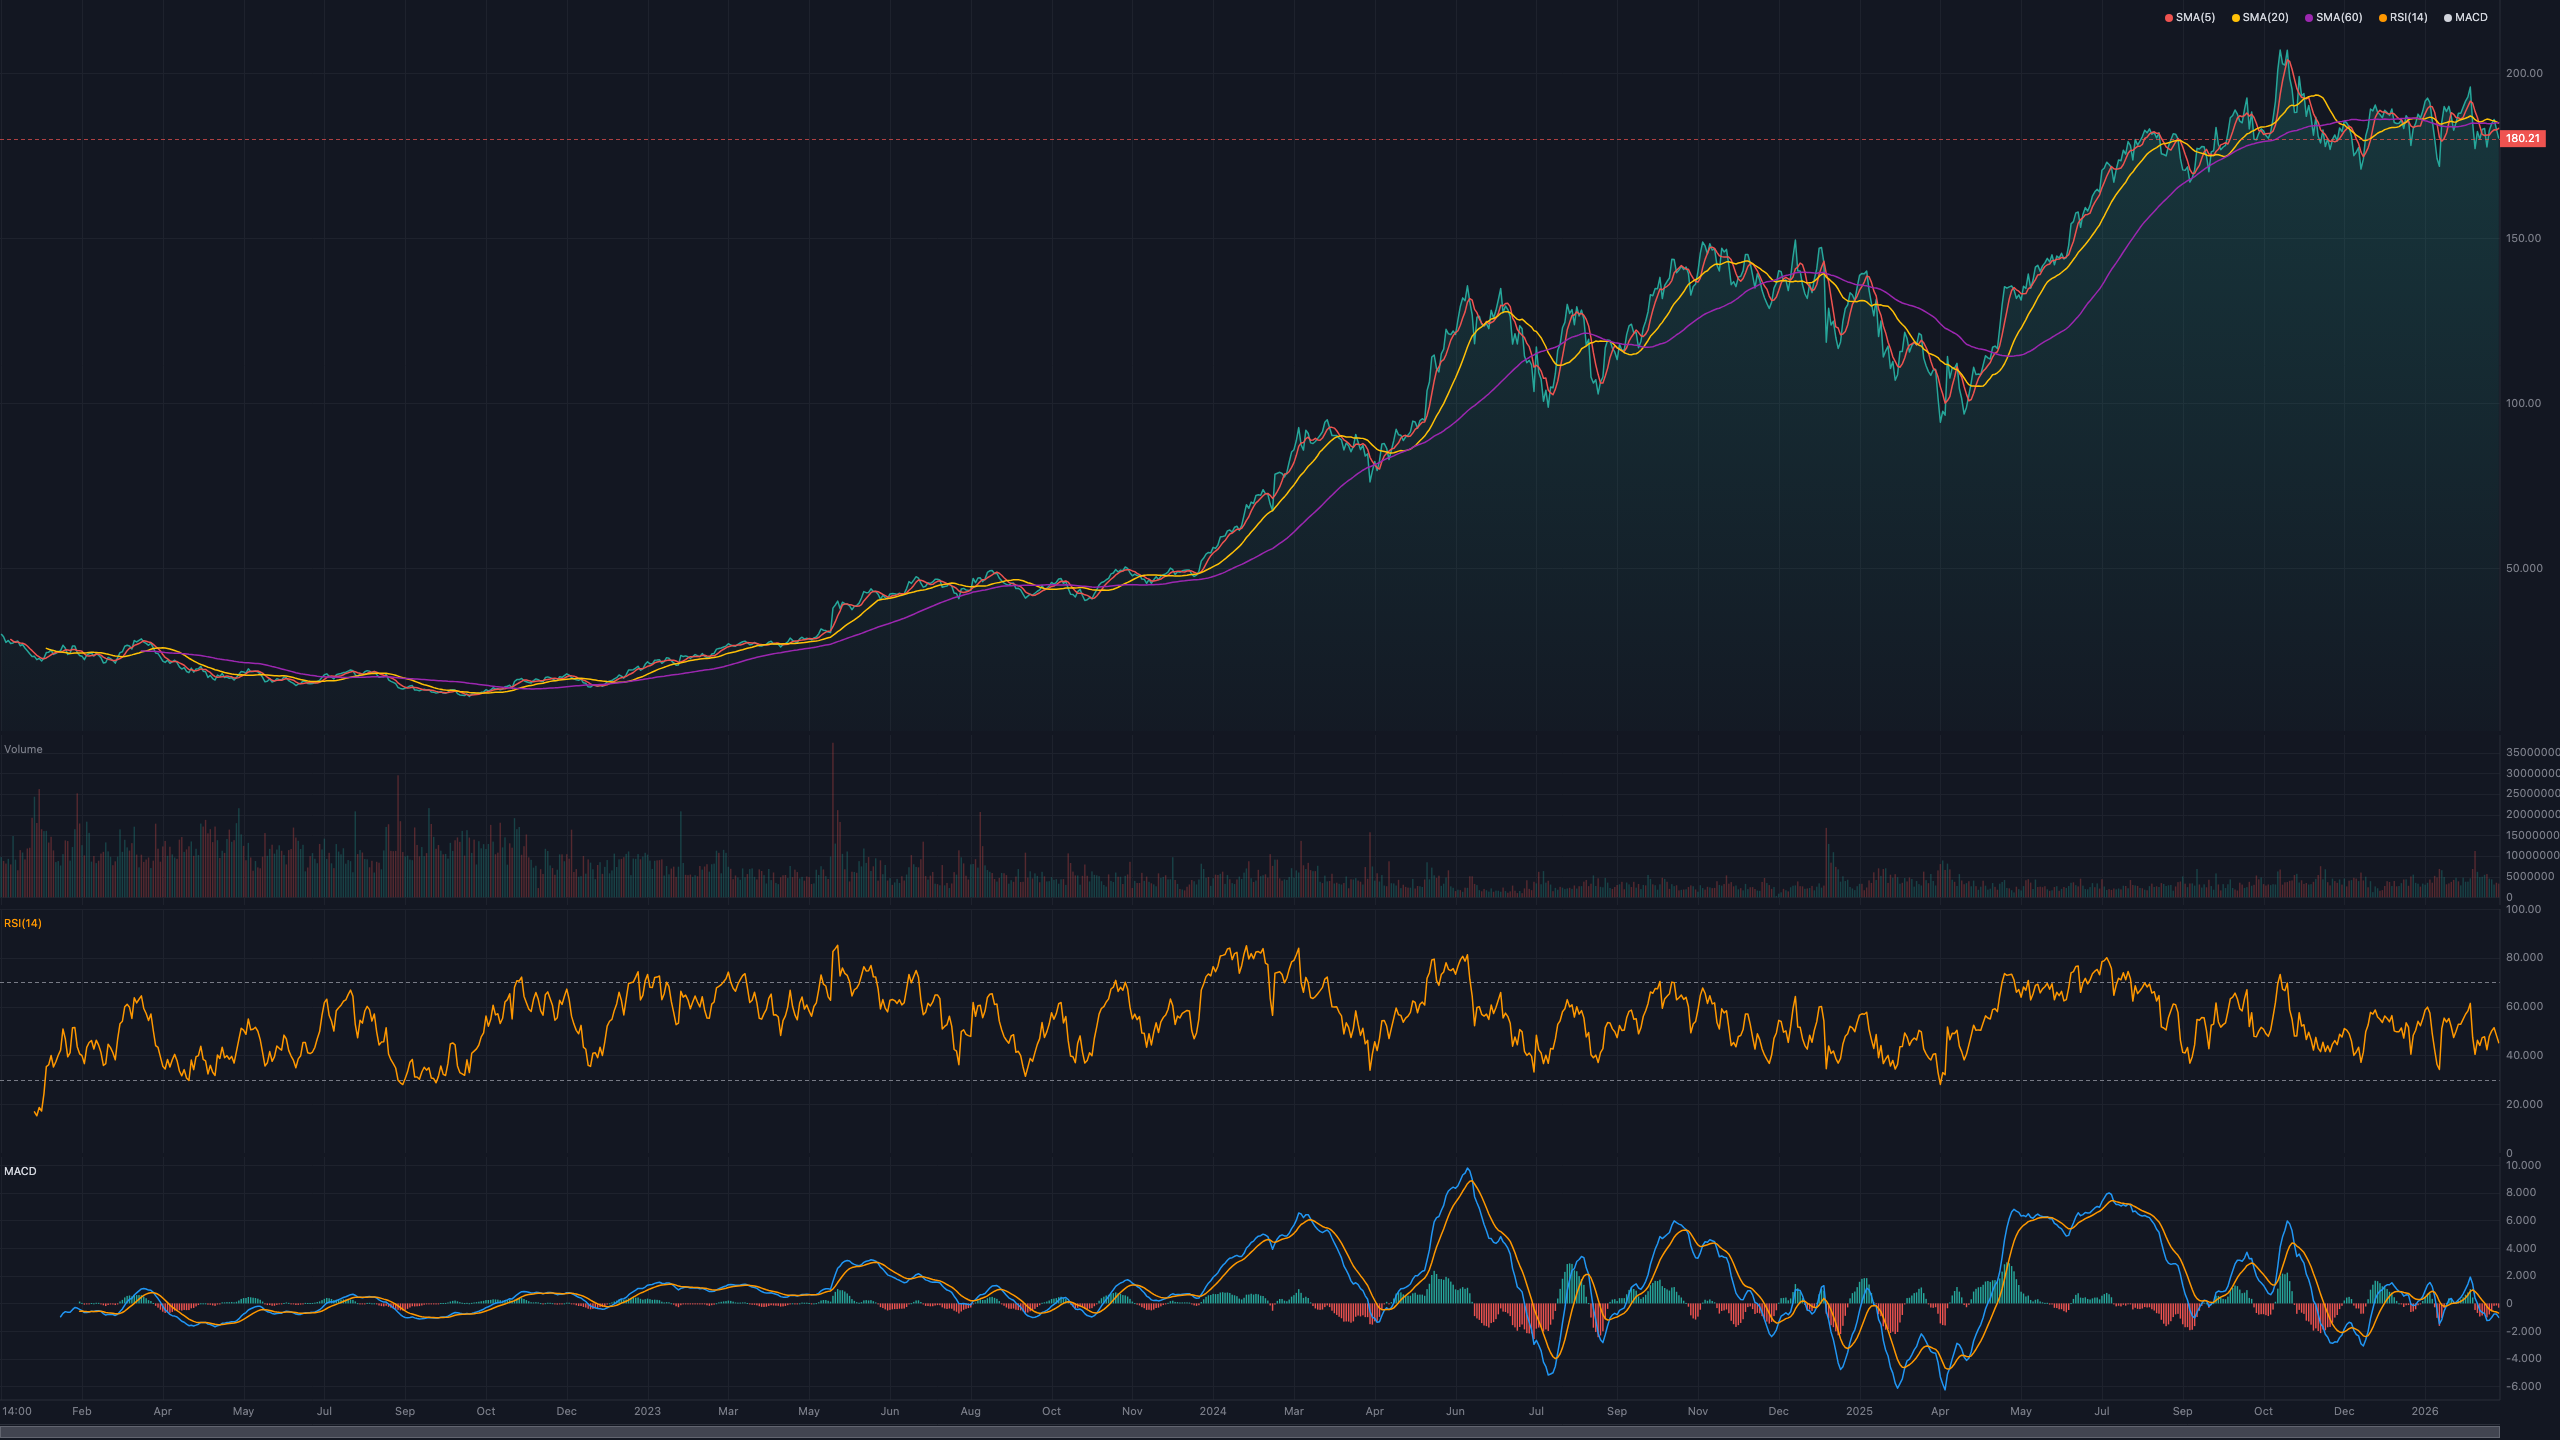
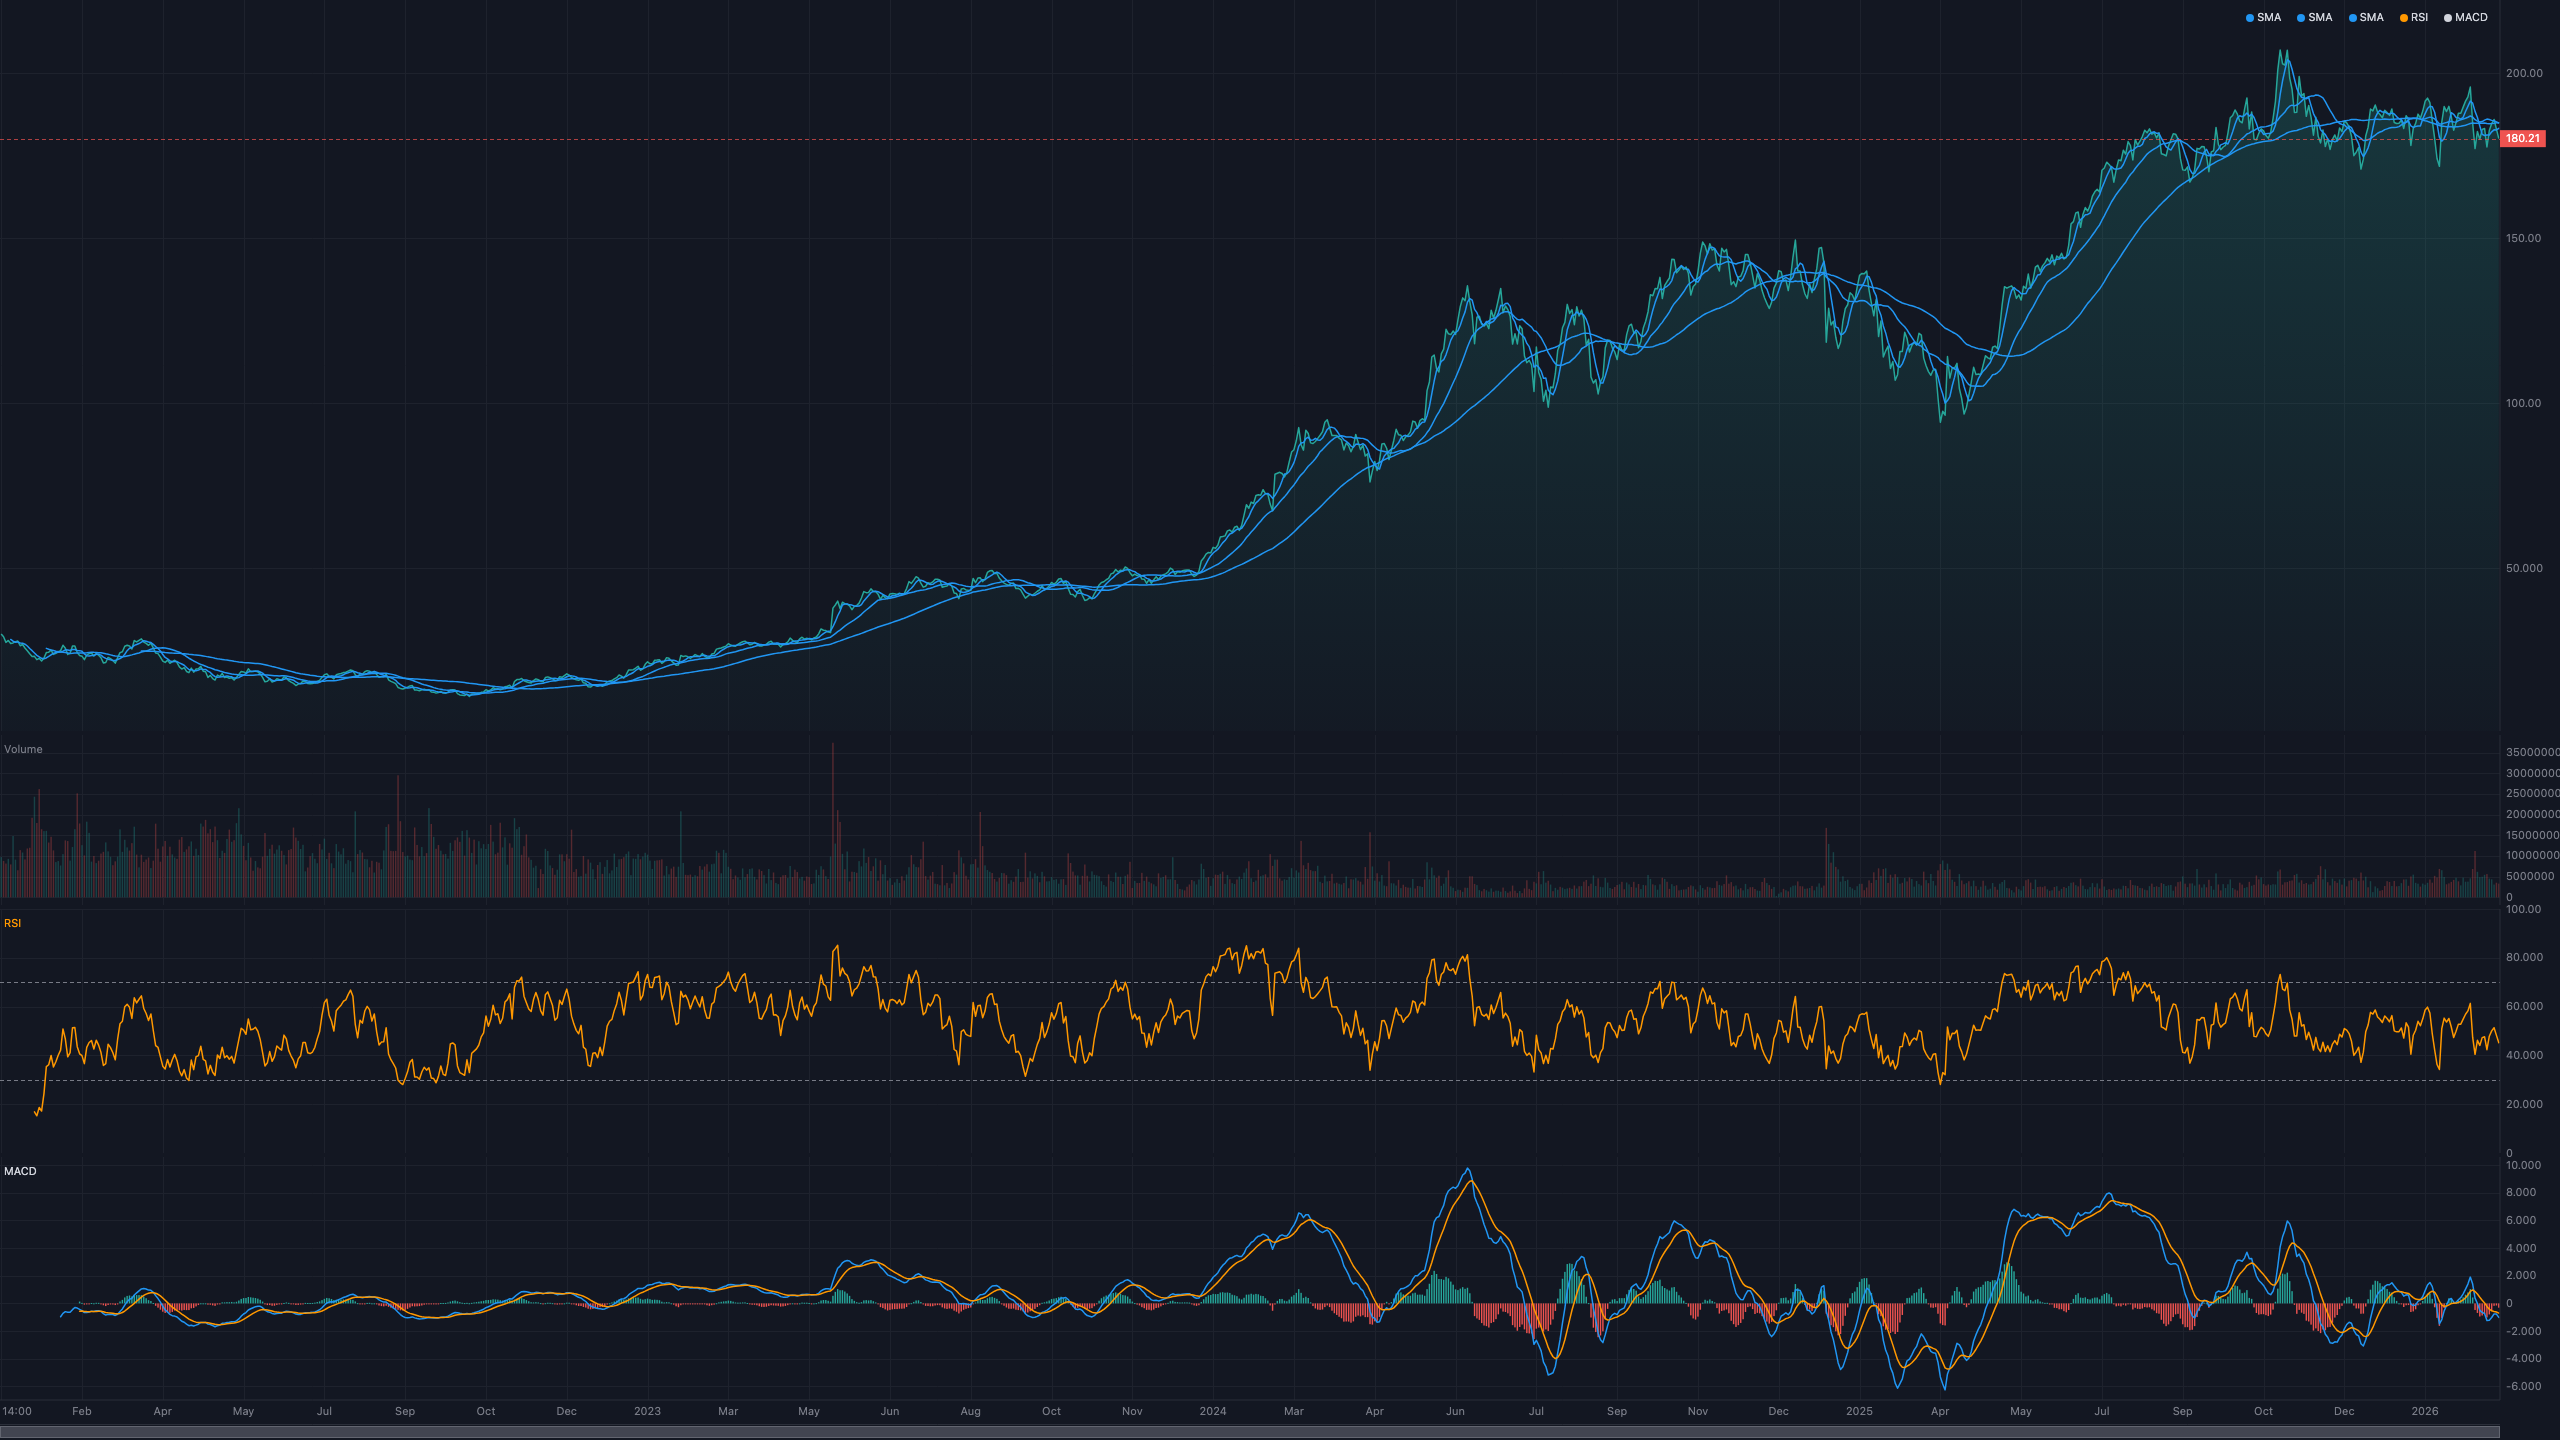
docs: record parametric-label change in CHANGELOGs and simplify hero scenes
- packages/core/CHANGELOG.md: document the parameterized __meta.label
  change (practically breaking for callers that string-match labels)
  and the new withLabelParams export.
- packages/chart/CHANGELOG.md: note the buildSeriesConfig simplification
  and the dropped MA preset colors.
- docs-screenshots/scenes/hero*.ts: drop the per-instance color overrides
  that were workarounds for the pre-fix collision. Scenes now register
  SMA 5/20/60 with zero config and rely on the library to produce
  distinct labels and auto-cycled colors.
- docs/assets/hero.png and hero-candle.png regenerated from the cleaner
  scenes (same data, same viewport).

diff --git a/packages/chart/examples/docs-screenshots/src/scenes/hero.ts b/packages/chart/examples/docs-screenshots/src/scenes/hero.ts
@@ -23,11 +23,11 @@ export function run(stage: HTMLElement, candles: CandleData[]): void {
   chart.setCandles(candles);
 
   const conn = connectIndicators(chart, { presets: indicatorPresets, candles });
-  // Override SMA colors per instance — the registered TrendCraft preset assigns
-  // all SMAs the same blue, so we force a ribbon palette here.
-  conn.add("sma", { period: 5, series: { color: "#EF5350" } });
-  conn.add("sma", { period: 20, series: { color: "#FFC107" } });
-  conn.add("sma", { period: 60, series: { color: "#9C27B0" } });
+  // Core v0.2.0+ emits parameterized labels and the chart auto-cycles colors
+  // across multi-instance presets, so no manual overrides are needed here.
+  conn.add("sma", { period: 5 });
+  conn.add("sma", { period: 20 });
+  conn.add("sma", { period: 60 });
   conn.add("rsi", { period: 14 });
   conn.add("macd");
 

diff --git a/packages/chart/examples/docs-screenshots/src/scenes/hero-candle.ts b/packages/chart/examples/docs-screenshots/src/scenes/hero-candle.ts
@@ -20,9 +20,9 @@ export function run(stage: HTMLElement, candles: CandleData[]): void {
   chart.setCandles(candles);
 
   const conn = connectIndicators(chart, { presets: indicatorPresets, candles });
-  conn.add("sma", { period: 5, series: { color: "#EF5350" } });
-  conn.add("sma", { period: 20, series: { color: "#FFC107" } });
-  conn.add("sma", { period: 60, series: { color: "#9C27B0" } });
+  conn.add("sma", { period: 5 });
+  conn.add("sma", { period: 20 });
+  conn.add("sma", { period: 60 });
   conn.add("rsi", { period: 14 });
   conn.add("macd");
 

diff --git a/packages/core/CHANGELOG.md b/packages/core/CHANGELOG.md
@@ -2,7 +2,18 @@
 
 ## Unreleased
 
-Target: **v0.2.0** — additive-only minor bump introducing live-streaming, indicator-registry, and series-metadata APIs.
+Target: **v0.2.0** — minor bump introducing live-streaming, indicator-registry, and series-metadata APIs, plus parameterized indicator labels.
+
+### Changed (Breaking in practice)
+
+- **Parameterized `__meta.label` on every parametric indicator.** Previously every SMA emitted `__meta.label = "SMA"` regardless of its period. Now the label includes the identifying parameters: `"SMA(20)"`, `"MACD(12, 26, 9)"`, `"BB(20, 2)"`, etc. This is done through a new `withLabelParams(meta, params)` helper (also exported) so callers building custom indicators can adopt the same convention.
+  - Fixes the ergonomic gap where three SMAs on one chart collapsed to three identical `"SMA"` legend entries.
+  - Code that compared `__meta.label` to a hard-coded string like `"RSI"` will need to match the parameterized form or use `meta.label.startsWith("RSI")`. Consumers that just render the label see no behavioural change other than the displayed string.
+  - ~50 indicators updated: all moving averages, the momentum/oscillator set (RSI, MACD, Stochastics, Aroon, CCI, Williams %R, ROC, TRIX, DPO, Hurst, Ultimate Oscillator, Awesome Oscillator, Mass Index, KST, Coppock, TSI, PPO, StochRSI, Connors RSI, CMO, Balance of Power, QStick, ADXR, DMI, IMI), volatility (BB, ATR, Donchian, Keltner, Chandelier Exit, Choppiness, Ulcer, HV, Garman-Klass), trend (Supertrend, Parabolic SAR, Vortex, STC, Linear Regression), and the parametric volume indicators (MFI, CMF, Klinger, Elder Force Index, EMV, Volume Anomaly).
+
+### Added
+
+- `withLabelParams(meta, params)` helper in `tag-series` for building parameterized labels when authoring custom indicators.
 
 ### Added — Live Streaming
 

diff --git a/packages/chart/CHANGELOG.md b/packages/chart/CHANGELOG.md
@@ -24,6 +24,11 @@ Draft for the initial public release. Date and final version are set at release 
 - ARIA accessibility support via `ChartAria`.
 - Bundle size limits enforced via `size-limit` (brotli): main ≤ 31 kB, headless ≤ 11 kB, React ≤ 27 kB, Vue ≤ 27 kB.
 
+### Changed
+
+- `buildSeriesConfig` now uses `meta.label` as-is instead of wrapping it with `(params.period)`. Core v0.2.0 emits parameterized labels (`"SMA(20)"` etc.) directly, so the extra wrap would have produced `"SMA(20)(20)"`.
+- Drop fixed `color` preset for the moving-average family (SMA / EMA / WMA / VWMA / KAMA / HMA / T3 / McGinley / DEMA / TEMA / ZLEMA / ALMA / FRAMA) in `registerTrendCraftPresets`. Multi-instance MA setups (e.g. 5/20/60 ribbon) now pick up distinct auto-cycled colors from the chart palette. Callers that want a specific color for one instance can still pass `color` via `SeriesConfig`.
+
 ### Peer dependencies
 
 - `trendcraft` (optional, `>=0.2.0`) — enables auto-detection of indicator series and powers `connectIndicators` / `connectLiveFeed` via `livePresets` / `indicatorPresets` / `createLiveCandle`.
